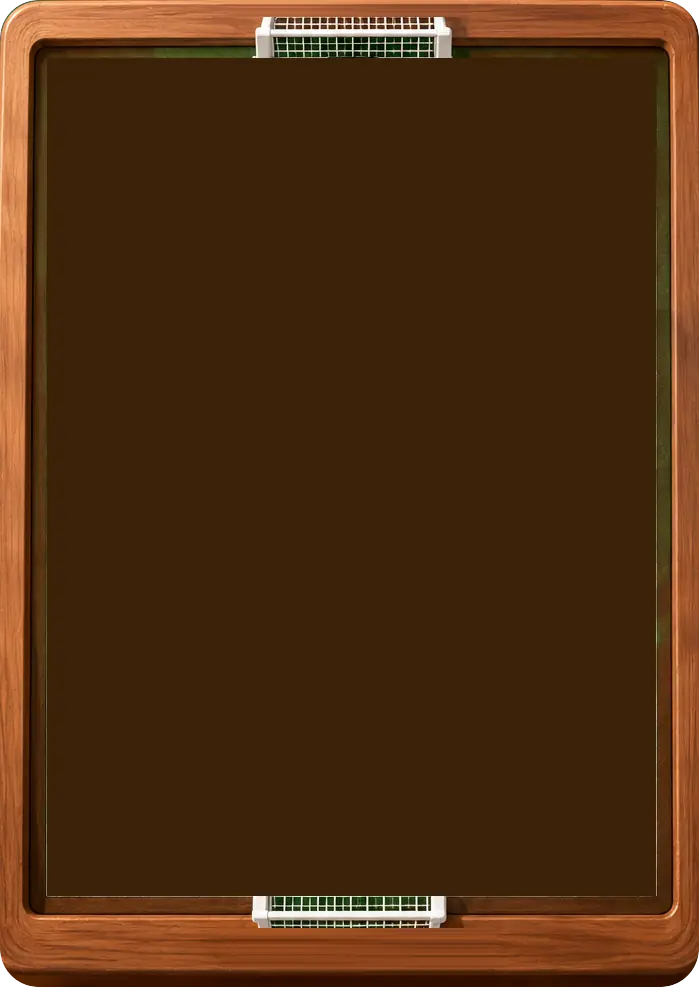
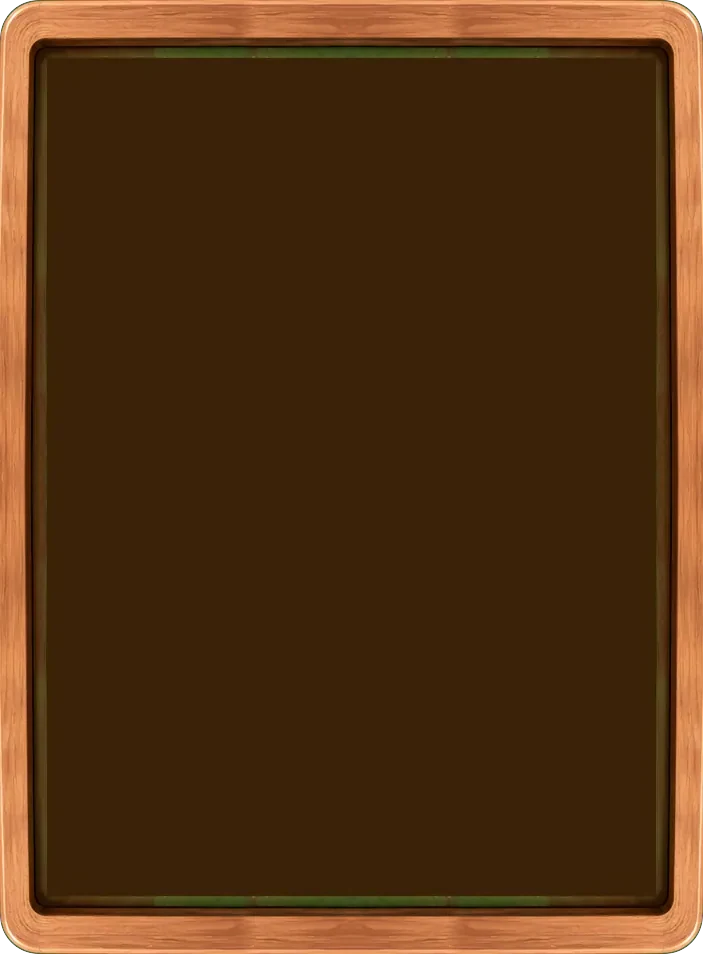
The tray as deep at the bottom as at the top
The handoff's picture of the tray showed its front below the bottom rim,
so the bottom looked half as thick again as the top. The tray is now the
top left quarter of that picture mirrored across and down: the same rim
top and bottom, left and right, as seen from straight above. The goal
painted on the rim, hidden under the game's own, is filled in with the
wood beside it. A unit test holds the picture to TRAY's size and the rims
to each other.

Claude-Session: https://claude.ai/code/session_01P1eDcqBDcQFbyV1vRjYrcD

Changed region(s): [[0.0, 0.0, 1.0, 1.0]]

diff --git a/tests/unit/botao.spec.ts b/tests/unit/botao.spec.ts
@@ -1,8 +1,9 @@
 /* Futebol de Botão: the flick, the bounces, the rules, and the planner. */
 
+import { readFileSync } from 'node:fs';
 import { describe, expect, it } from 'vitest';
 import {
-  BALL, KEEPER_OUT, KEEPER_RX, KEEPER_W, KEEPER_Y, L, MARKS, MAX_SPEED, MOUTH, NET, POST, PULL, R, W,
+  BALL, KEEPER_OUT, KEEPER_RX, KEEPER_W, KEEPER_Y, L, MARKS, MAX_SPEED, MOUTH, NET, POST, PULL, R, TRAY, TRAY_AT, W,
   angles, flickFor, keeperFor, oneTouch, passPlan, robust, shownBounce, simulate, slant,
   type Point, type Table,
 } from '../../src/content/botao';
@@ -219,6 +220,16 @@ describe('the table', () => {
     expect(shot.own).toBe(false);
     expect(shot.bounces.length).toBeGreaterThan(0);
     expect(shot.end.ball.y).toBeLessThanOrEqual(L - BALL + 0.01);
+  });
+
+  it('sits in a tray whose rim is as deep at the bottom as at the top, its picture the size TRAY says', () => {
+    /* the picture's own width and height, from its WebP header */
+    const file = readFileSync('src/assets/tray.webp');
+    expect(file.toString('ascii', 8, 16)).toBe('WEBPVP8X');
+    expect([file.readUIntLE(24, 3) + 1, file.readUIntLE(27, 3) + 1]).toEqual([TRAY.w, TRAY.h]);
+    /* in table units: the rim at the bottom as deep as at the top, and the right as wide as the left */
+    expect(TRAY_AT.y + TRAY_AT.h - L).toBeCloseTo(-TRAY_AT.y, 6);
+    expect(TRAY_AT.x + TRAY_AT.w - W).toBeCloseTo(-TRAY_AT.x, 6);
   });
 });
 

diff --git a/src/content/botao.ts b/src/content/botao.ts
@@ -465,12 +465,15 @@ export function passPlan(t: Table, from: number, to: number, keeper: KeeperPlay)
 /** a pull back of one table unit sets a button off at this speed */
 export const PULL = 5;
 /**
- * The wooden tray the table sits in: the design handoff's picture of it
- * (src/assets/tray.webp), 699 × 987, with its felt at 47 across and
- * 58 down, 609 by 838. The tray's front shows below its rim, so it is deeper
- * at the bottom than at the top.
+ * The wooden tray the table sits in (src/assets/tray.webp), 703 × 954,
+ * with its felt at 47 across and 58 down, 609 by 838: the rim as deep at
+ * the bottom as at the top, and as wide on the right as on the left, as the
+ * tray is seen from straight above. It is the top left
+ * quarter of the design handoff's picture, the goal painted on its rim
+ * filled in with the wood beside it, mirrored across and down (the handoff's
+ * own showed the tray's front below its bottom rim, deeper than the top).
  */
-export const TRAY = { w: 699, h: 987, felt: { x: 47, y: 58, w: 609, h: 838 } } as const;
+export const TRAY = { w: 703, h: 954, felt: { x: 47, y: 58, w: 609, h: 838 } } as const;
 /** where the tray's picture lies, in table units: laid so its felt is exactly ours */
 export const TRAY_AT = (() => {
   const [kx, ky] = [W / TRAY.felt.w, L / TRAY.felt.h];

diff --git a/CLAUDE.md b/CLAUDE.md
@@ -141,7 +141,8 @@ src/game/pace.ts          how long the game waits between things, in one place
 src/lib/                  speech, sfx, audio (the commentator's recorded lines),
                           storage, crests, life, router, dom, update (the
                           "new version, tap to update" button)
-src/assets/tray.webp      the wooden tray, cut from the design handoff
+src/assets/tray.webp      the wooden tray, cut from the design handoff, its rim
+                          as deep at the bottom as at the top
 tests/unit/               physics, planner, the match's rules, the computer, set-ups, teams,
                           squads, the Copa, the guide's demos, storage, sfx, speech, crests,
                           the recordings
